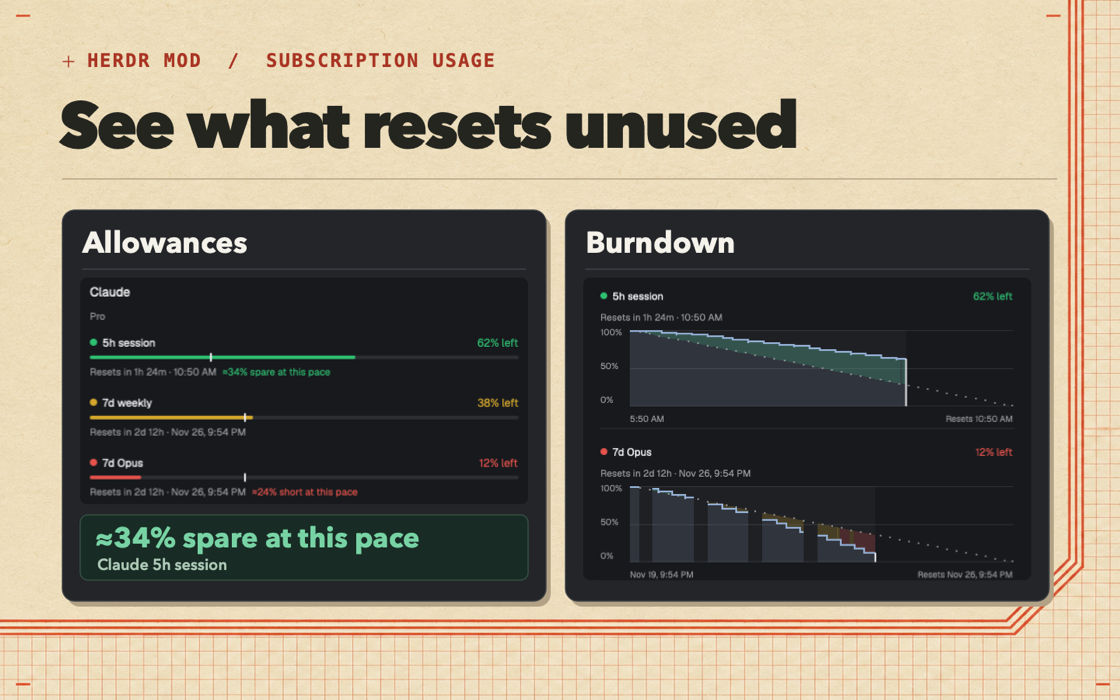
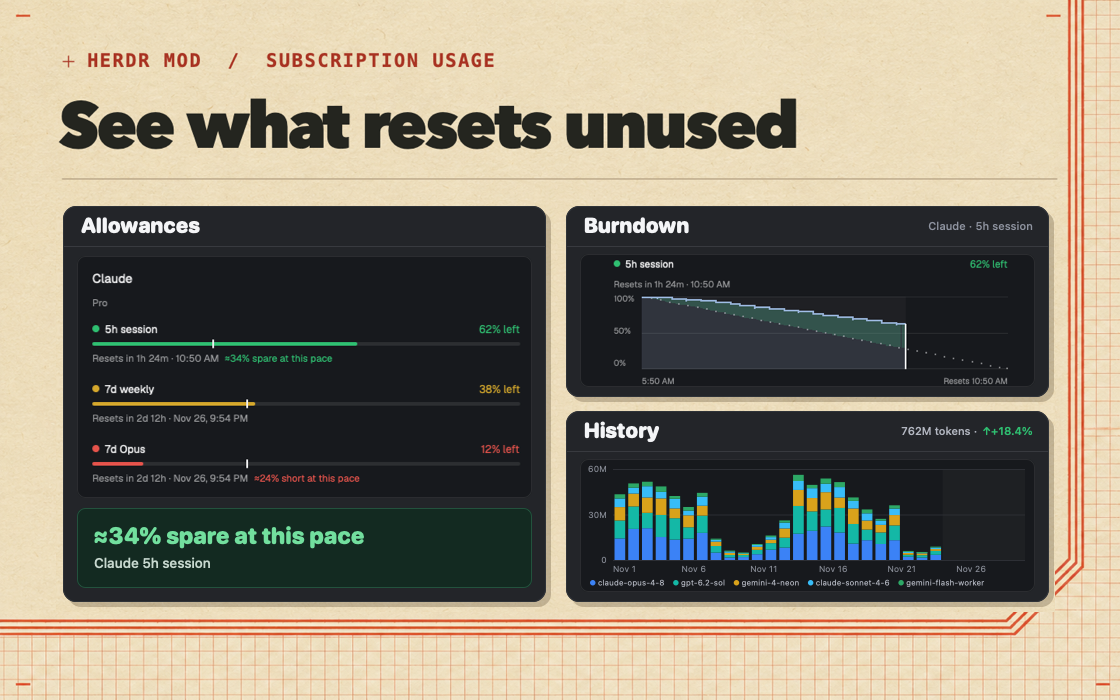
Update splash preview to include History chart

diff --git a/herdr-app/screenshots/capture.ts b/herdr-app/screenshots/capture.ts
@@ -4,9 +4,10 @@
 //
 //   bun run screenshots
 //
-// It writes docs/herdr-app-allowances.png and docs/herdr-app-burndown.png, and repaints the
-// Claude cards inside herdr-app/preview.png. The rest of the preview (its paper, headline and the
-// "spare at this pace" callout) is a fixed design and stays as it is.
+// It writes docs/herdr-app-allowances.png, docs/herdr-app-burndown.png, and
+// docs/herdr-app-historical.png, and repaints the Claude Allowances and Burndown cards inside
+// herdr-app/preview.png. The rest of the preview (its paper, headline, the "spare at this pace"
+// callout, and the compact History card) is a fixed design and stays as it is.
 //
 // Nothing real is read or changed. The window gets its own Herdr home, terminal core, data and
 // cache folders, with telemetry off. The mod's bridge is swapped for sample-bridge.js, which
@@ -27,13 +28,10 @@ const HEIGHT = 1040;
 const DIALOG = [WIDTH * 0.05, HEIGHT * 0.05, WIDTH * 0.9, HEIGHT * 0.9];
 
 // Where each view's Claude card goes in the preview: a rect of the window shot, scaled and placed
-// as the preview was first laid out. Each rect's edges sit on the card's plain background.
+// as the preview was laid out. Each rect's edges sit on the card's plain background.
 const PREVIEW: Record<string, Array<{ from: number[]; scale: number; at: number[] }>> = {
-  allowances: [{ from: [111, 274, 490, 246], scale: 0.8975, at: [84.5, 282.75] }],
-  burndown: [
-    { from: [112, 192, 490, 160], scale: 0.864, at: [596, 284.5] }, // 5h session
-    { from: [112, 547, 490, 160], scale: 0.86375, at: [596.25, 441.25] }, // 7d Opus
-  ],
+  allowances: [{ from: [109, 270, 490, 248], scale: 0.895, at: [85.225, 266.02] }],
+  burndown: [{ from: [109, 196, 486, 156], scale: 0.825, at: [607.025, 256.15] }], // 5h session
 };
 
 const need = (name: string) => {

diff --git a/README.md b/README.md
@@ -8,7 +8,7 @@ Claude Code · Codex · Antigravity · Cursor · GitHub Copilot · Grok · OpenC
 [![Herdr mod](https://img.shields.io/badge/Herdr-mod-2fbf71)](https://herdr.dev/gallery/?type=mods)
 [![Runs on Bun](https://img.shields.io/badge/runs%20on-Bun-f9f1e1)](https://bun.sh)
 
-![Usage Monitor shows remaining allowances alongside burndown charts and highlights quota likely to go unused](herdr-app/preview.png)
+![Usage Monitor shows remaining allowances alongside burndown charts, spare-allowance highlights, and historical token usage by model](herdr-app/preview.png)
 
 **Always on screen.** What's left of each subscription sits at the bottom left of the Herdr app's sidebar, above Settings. A figure turns yellow at 30% or less and red at 10% or less.
 
